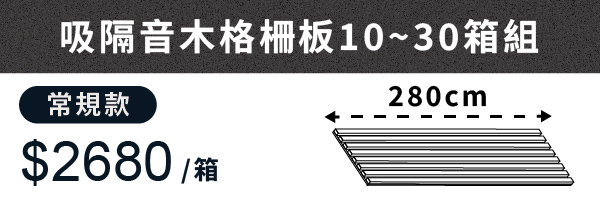
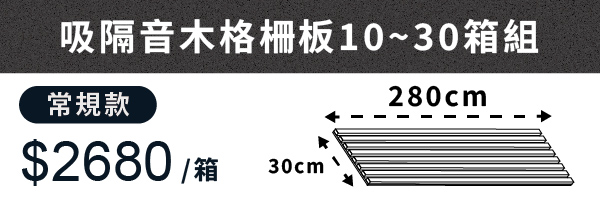
Add files via upload

Changed region(s): [[0.45, 0.78, 0.57, 0.87], [0.51, 0.69, 0.57, 0.75], [0.57, 0.87, 0.6, 0.93]]

diff --git a/嘖嘖 _ CoCoHome吸隔音木格柵板｜免費裁切服務，DIY更輕鬆.html b/嘖嘖 _ CoCoHome吸隔音木格柵板｜免費裁切服務，DIY更輕鬆.html
@@ -457,7 +457,7 @@
                     <p style="text-align: center;">吸隔音木格柵板有效減少空間回聲<br>
                       可降低27.5分貝(依實際環境會有差異)</p><br>
                     <img src="ag-num.jpg"><br>
-                    <iframe width="786" height="442" src="https://www.youtube.com/embed/M2QkUjqBjl4" title="CoCo-HOME宅家居 | 同樣是木格柵，吸隔音木格柵板的吸音降噪表現近35%｜實測報告公開📊 #木紋貼皮 #聲學牆面 #靜音改造 #質感升級 #吸音木格柵板 #租屋改造 #DIY牆面 #質感生活" frameborder="0" allow="accelerometer; autoplay; clipboard-write; encrypted-media; gyroscope; picture-in-picture; web-share" referrerpolicy="strict-origin-when-cross-origin" allowfullscreen></iframe><br>
+                    <iframe width="786" height="442" src="https://www.youtube.com/embed/B4DrXXSqINA?si=SHN7hVDA89tVOH8O" title="YouTube video player" frameborder="0" allow="accelerometer; autoplay; clipboard-write; encrypted-media; gyroscope; picture-in-picture; web-share" referrerpolicy="strict-origin-when-cross-origin" allowfullscreen></iframe><br>
                     <img src="qn-icon2.jpg"><br>
                     <img src="pj-item-title.jpg">
                     <img src="pj-item01.jpg">
@@ -646,7 +646,7 @@
             </div>
             <div class="maxh5 maxh-none-ns overflow-y-auto break-all">
               <div class="text-black text-sm mv-child-0 flex flex-col space-y-4 leading-relaxed">
-                <p>【裁切請改下客製版本】
+                <p>【免費裁切請改下客製版本】
                   <br>一箱 2 片裝，單片尺寸 280 x 30cm
                   <br>共計 4 色選擇：白橡木 / 瑞士銀梨 / 黑杏木 / 胡桃木
                   <br>—------------------------------
@@ -689,7 +689,7 @@
 
               NT$ 2,680
               <span
-                class="inline-block text-xs font-bold text-black bg-yellow-300 leading-relaxed px-2 ml-2 rounded-sm">75
+                class="inline-block text-xs font-bold text-black bg-yellow-300 leading-relaxed px-2 ml-2 rounded-sm">74
                 折</span>
               <p class="w-full text-gray-500 font-normal text-xs">
                 預定售價
@@ -699,7 +699,7 @@
             </div>
             <div class="maxh5 maxh-none-ns overflow-y-auto break-all">
               <div class="text-black text-sm mv-child-0 flex flex-col space-y-4 leading-relaxed">
-                <p>【裁切請改下客製版本】
+                <p>【免費裁切請改下客製版本】
                   <br>一箱 2 片裝，單片尺寸 280 x 30cm
                   <br>共計 4 色選擇：白橡木 / 瑞士銀梨 / 瑞士灰梨木 / 胡桃木
                   <br>—------------------------------
@@ -758,7 +758,7 @@
                   <br>1箱可鋪0.51坪，室內4坪空間鋪設。
                   <br>4坪/0.51=8箱，不同裁切尺寸需分開下單。
                   <br>—-------------------------------
-                  <br>✦ 每片限切橫向一刀，直向用美工刀就能輕鬆DIY
+                  <br>✦ 每片限切橫向一刀，縱向用美工刀就能輕鬆DIY
                   <br>✦ 照訂單順序出貨，越早購入越早到貨
                   <br>✦ 下單後記得選色！並提供需求尺寸
                   <br>✦ <span style="color:red">客定裁切不可退換貨</span>
@@ -794,7 +794,7 @@
             <div class="text-gray-600 font-bold mt-4 mb-2">客製吸隔音木格柵大量組</div>
             <div class="text-black font-bold text-xl flex items-center">
               NT$ 2,680
-              <span class="inline-block text-xs font-bold text-black bg-yellow-300 leading-relaxed px-2 ml-2 rounded-sm">75
+              <span class="inline-block text-xs font-bold text-black bg-yellow-300 leading-relaxed px-2 ml-2 rounded-sm">74
                 折</span>
               <p class="w-full text-gray-500 font-normal text-xs">
                 預定售價
@@ -811,7 +811,7 @@
                   <br>1箱可鋪0.51坪，室內5坪空間鋪設。
                   <br>5坪/0.51=10箱，不同裁切尺寸需分開下單。
                   <br>—-------------------------------
-                  <br>✦ 每片限切橫向一刀，直向用美工刀就能輕鬆DIY
+                  <br>✦ 每片限切橫向一刀，縱向用美工刀就能輕鬆DIY
                   <br>✦ 照訂單順序出貨，越早購入越早到貨
                   <br>✦ 先下單後選色！並提供需求尺寸
                   <br>✦ <span style="color:red">客定裁切不可退換貨</span>
@@ -852,7 +852,7 @@
             <div class="maxh5 maxh-none-ns overflow-y-auto break-all">
               <div class="text-black text-sm mv-child-0 flex flex-col space-y-4 leading-relaxed">
                 <p>害怕殘膠、破畫牆面嗎？
-                  <br>購買美紋膠帶來避免這問題嗎吧。
+                  <br>購買美紋膠帶來避免這問題吧。
                   <br>—------------------------------
                   <br>規格：10cm*45m
                   <br>耐溫：70度 90度(30分鐘) 100度(瞬間)
@@ -860,8 +860,8 @@
                   <br>厚度：0.14mm
                   <br>—------------------------------
                   <br>數量計算建議：
-                  <br>1捲約可鋪3箱吸隔音木格棧板
-                  <br>購買8箱吸隔音木格柵板，建議購買24捲美紋膠帶。
+                  <br>1捲約可鋪3箱(6片)吸隔音木格棧板
+                  <br>購買8箱(16片)吸隔音木格柵板，建議購買3捲美紋膠帶
                   <br>—-------------------------------
                   <br>✦ 照訂單順序出貨，越早購入越早到貨
               </div>
@@ -890,7 +890,7 @@
           <a class="p-4 border-2 border-inherit rounded text-neutral-200 mb-8 block border-rainbow "
             href="/projects/freemanssb/orders/back_project?selected_reward=158292#details"><img width="600" height="200"
               class="lazy placeholder-3:1 w-full h-auto mb-2 round-s entered loaded"
-              src="頁面設計_太棒膠.jpg"
+              src="pd-glue.jpg"
               data-ll-status="loaded">
             <div class="text-gray-600 font-bold mt-4 mb-2">美國太棒膠</div>
             <div class="text-black font-bold text-xl flex items-center">
@@ -908,8 +908,10 @@
                   <br>容量：296ml
                   <br>—------------------------------
                   <br>數量計算建議：
-                  <br>1~2瓶約可鋪1箱吸隔音木格棧板。
+                  <br>1支約可鋪1箱(2片)吸隔音木格棧板。
+                  <br>購買8箱(16片)吸隔音木格柵板，建議購買8支太棒膠。
                   <br>—-------------------------------
+                  <br>✦ 建議搭配太棒膠槍一起使用
                   <br>✦ 照訂單順序出貨，越早購入越早到貨
               </div>
             </div>
@@ -936,9 +938,9 @@
           <a class="p-4 border-2 border-inherit rounded text-neutral-200 mb-8 block border-rainbow "
             href="/projects/freemanssb/orders/back_project?selected_reward=158292#details"><img width="600" height="200"
               class="lazy placeholder-3:1 w-full h-auto mb-2 round-s entered loaded"
-              src="頁面設計_矽利康槍.jpg"
+              src="pd-gluegun.jpg"
               data-ll-status="loaded">
-            <div class="text-gray-600 font-bold mt-4 mb-2">矽利康槍</div>
+            <div class="text-gray-600 font-bold mt-4 mb-2">太棒膠槍</div>
             <div class="text-black font-bold text-xl flex items-center">
 
               NT$ 120
@@ -947,9 +949,11 @@
             <div class="maxh5 maxh-none-ns overflow-y-auto break-all">
               <div class="text-black text-sm mv-child-0 flex flex-col space-y-4 leading-relaxed">
                 <p>黏貼吸隔音木格柵的好幫手
-                  <br>重量輕，韌性佳，耐衝擊
-                  <br>建議也下單太棒膠一起使用喔
+                  <br>也稱 矽利康槍
                   <br>—-------------------------------
+                  <br>重量輕，韌性佳，耐衝擊
+                  <br>—-------------------------------
+                  <br>✦ 建議搭配太棒膠一起使用
                   <br>✦ 照訂單順序出貨，越早購入越早到貨
               </div>
             </div>
